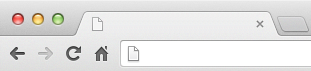
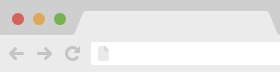
Change browser chrome images to flat ones
For the lulz

diff --git a/css/main.css b/css/main.css
@@ -48,7 +48,12 @@ header h1 {
     line-height: 200px;
     text-align: center;
     margin: 0 auto;
-    background: cyan;
+    background: #aaa;
+}
+
+.droparea:hover{
+    background: orange;
+    color: #fff;
 }
 
 .images {
